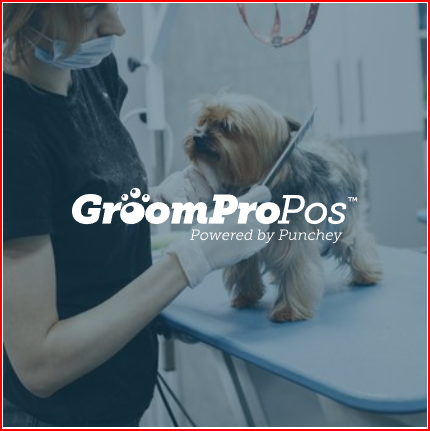
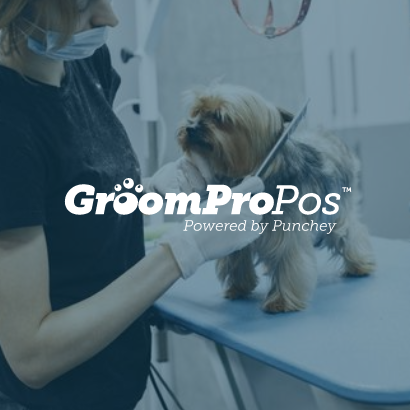
added images and update css and html for portfolio

diff --git a/index.html b/index.html
@@ -29,8 +29,10 @@
             </div>
         </div>
     </div>
+
     <!---------------------------About Me----------------------------------------------->
-    <div id="about">
+    
+     <div id="about">
         <div class="container">
             <div class="row">
                 <div class="about-col-1">
@@ -70,7 +72,9 @@
             </div>
         </div>
     </div>
+
     <!----------------services ----------------------------------------->
+
     <div id="services">
         <div class="container">
             <h1 class="sub-title">Services</h1>
@@ -98,46 +102,31 @@
     </div>
 
 <!-----------------------portfolio--------------------------------------------->
+
 <div id="portfolio">
     <div class="container">
         <h1 class="sub-title">Portfolio</h1>
         <div class="work-list">
             <div class="work">
-                <img src="">
-                <div class="layer">
-                    <h3>Punchey POS</h3>
-                    <p>Industry Apps that run on the Punchey Point of Sale</p>
-                </div>
-            <div class="work">
-                <img src="images/tattoopro.png">
+                <img src="images/TattooPro.png">
                 <div class="layer">
                     <h3>Tattoo Pro</h3>
                     <p>Complete Cloud Software for Tattoo and Peircing Studios</p>
-                    <a href="#"><svg xmlns="http://www.w3.org/2000/svg" width="16" height="16" fill="currentColor" class="bi bi-box-arrow-up-right" viewBox="0 0 16 16">
-                        <path fill-rule="evenodd" d="M8.636 3.5a.5.5 0 0 0-.5-.5H1.5A1.5 1.5 0 0 0 0 4.5v10A1.5 1.5 0 0 0 1.5 16h10a1.5 1.5 0 0 0 1.5-1.5V7.864a.5.5 0 0 0-1 0V14.5a.5.5 0 0 1-.5.5h-10a.5.5 0 0 1-.5-.5v-10a.5.5 0 0 1 .5-.5h6.636a.5.5 0 0 0 .5-.5z"/>
-                        <path fill-rule="evenodd" d="M16 .5a.5.5 0 0 0-.5-.5h-5a.5.5 0 0 0 0 1h3.793L6.146 9.146a.5.5 0 1 0 .708.708L15 1.707V5.5a.5.5 0 0 0 1 0v-5z"/>
-                      </svg></a>
+                    <a href="#"><i class="fa-brands fa-wpforms"></i></a>
                 </div>
             <div class="work">
-                <img src="images/detailpro.png">
+                <img src="images/DetailPro .png">
                 <div class="layer">
                     <h3>Detail Pro</h3>
                     <p>Complete Cloud Software for Automotive Detailing</p>
-                    <a href="#"><svg xmlns="http://www.w3.org/2000/svg" width="16" height="16" fill="currentColor" class="bi bi-box-arrow-up-right" viewBox="0 0 16 16">
-                        <path fill-rule="evenodd" d="M8.636 3.5a.5.5 0 0 0-.5-.5H1.5A1.5 1.5 0 0 0 0 4.5v10A1.5 1.5 0 0 0 1.5 16h10a1.5 1.5 0 0 0 1.5-1.5V7.864a.5.5 0 0 0-1 0V14.5a.5.5 0 0 1-.5.5h-10a.5.5 0 0 1-.5-.5v-10a.5.5 0 0 1 .5-.5h6.636a.5.5 0 0 0 .5-.5z"/>
-                        <path fill-rule="evenodd" d="M16 .5a.5.5 0 0 0-.5-.5h-5a.5.5 0 0 0 0 1h3.793L6.146 9.146a.5.5 0 1 0 .708.708L15 1.707V5.5a.5.5 0 0 0 1 0v-5z"/>
-                      </svg></a>
+                    <a href="#"><i class="fa-solid fa-mobile-signal"></i></a>
                 </div>
-            </div>
             <div class="work">
-                <img src="images/groompro.png">
+                <img src="images/GroomPro.png">
                 <div class="layer">
                     <h3>Groom Pro</h3>
-                    <p>Complete Cloud Software for Grooming Proffessionals</p>
-                    <a href="#"><svg xmlns="http://www.w3.org/2000/svg" width="16" height="16" fill="currentColor" class="bi bi-box-arrow-up-right" viewBox="0 0 16 16">
-                        <path fill-rule="evenodd" d="M8.636 3.5a.5.5 0 0 0-.5-.5H1.5A1.5 1.5 0 0 0 0 4.5v10A1.5 1.5 0 0 0 1.5 16h10a1.5 1.5 0 0 0 1.5-1.5V7.864a.5.5 0 0 0-1 0V14.5a.5.5 0 0 1-.5.5h-10a.5.5 0 0 1-.5-.5v-10a.5.5 0 0 1 .5-.5h6.636a.5.5 0 0 0 .5-.5z"/>
-                        <path fill-rule="evenodd" d="M16 .5a.5.5 0 0 0-.5-.5h-5a.5.5 0 0 0 0 1h3.793L6.146 9.146a.5.5 0 1 0 .708.708L15 1.707V5.5a.5.5 0 0 0 1 0v-5z"/>
-                      </svg></a>
+                    <p>Complete Cloud Software for Pet Grooming</p>
+                    <a href="#"><i class="fa-solid fa-bath"></i></a>
                 </div>
             </div>
         </div>

diff --git a/style.css b/style.css
@@ -180,6 +180,7 @@ nav ul li a:hover::after {
 }
 
 /*-------------------portfolio--------------------------*/
+
 #porfolio {
     padding: 50px 0;
 }
